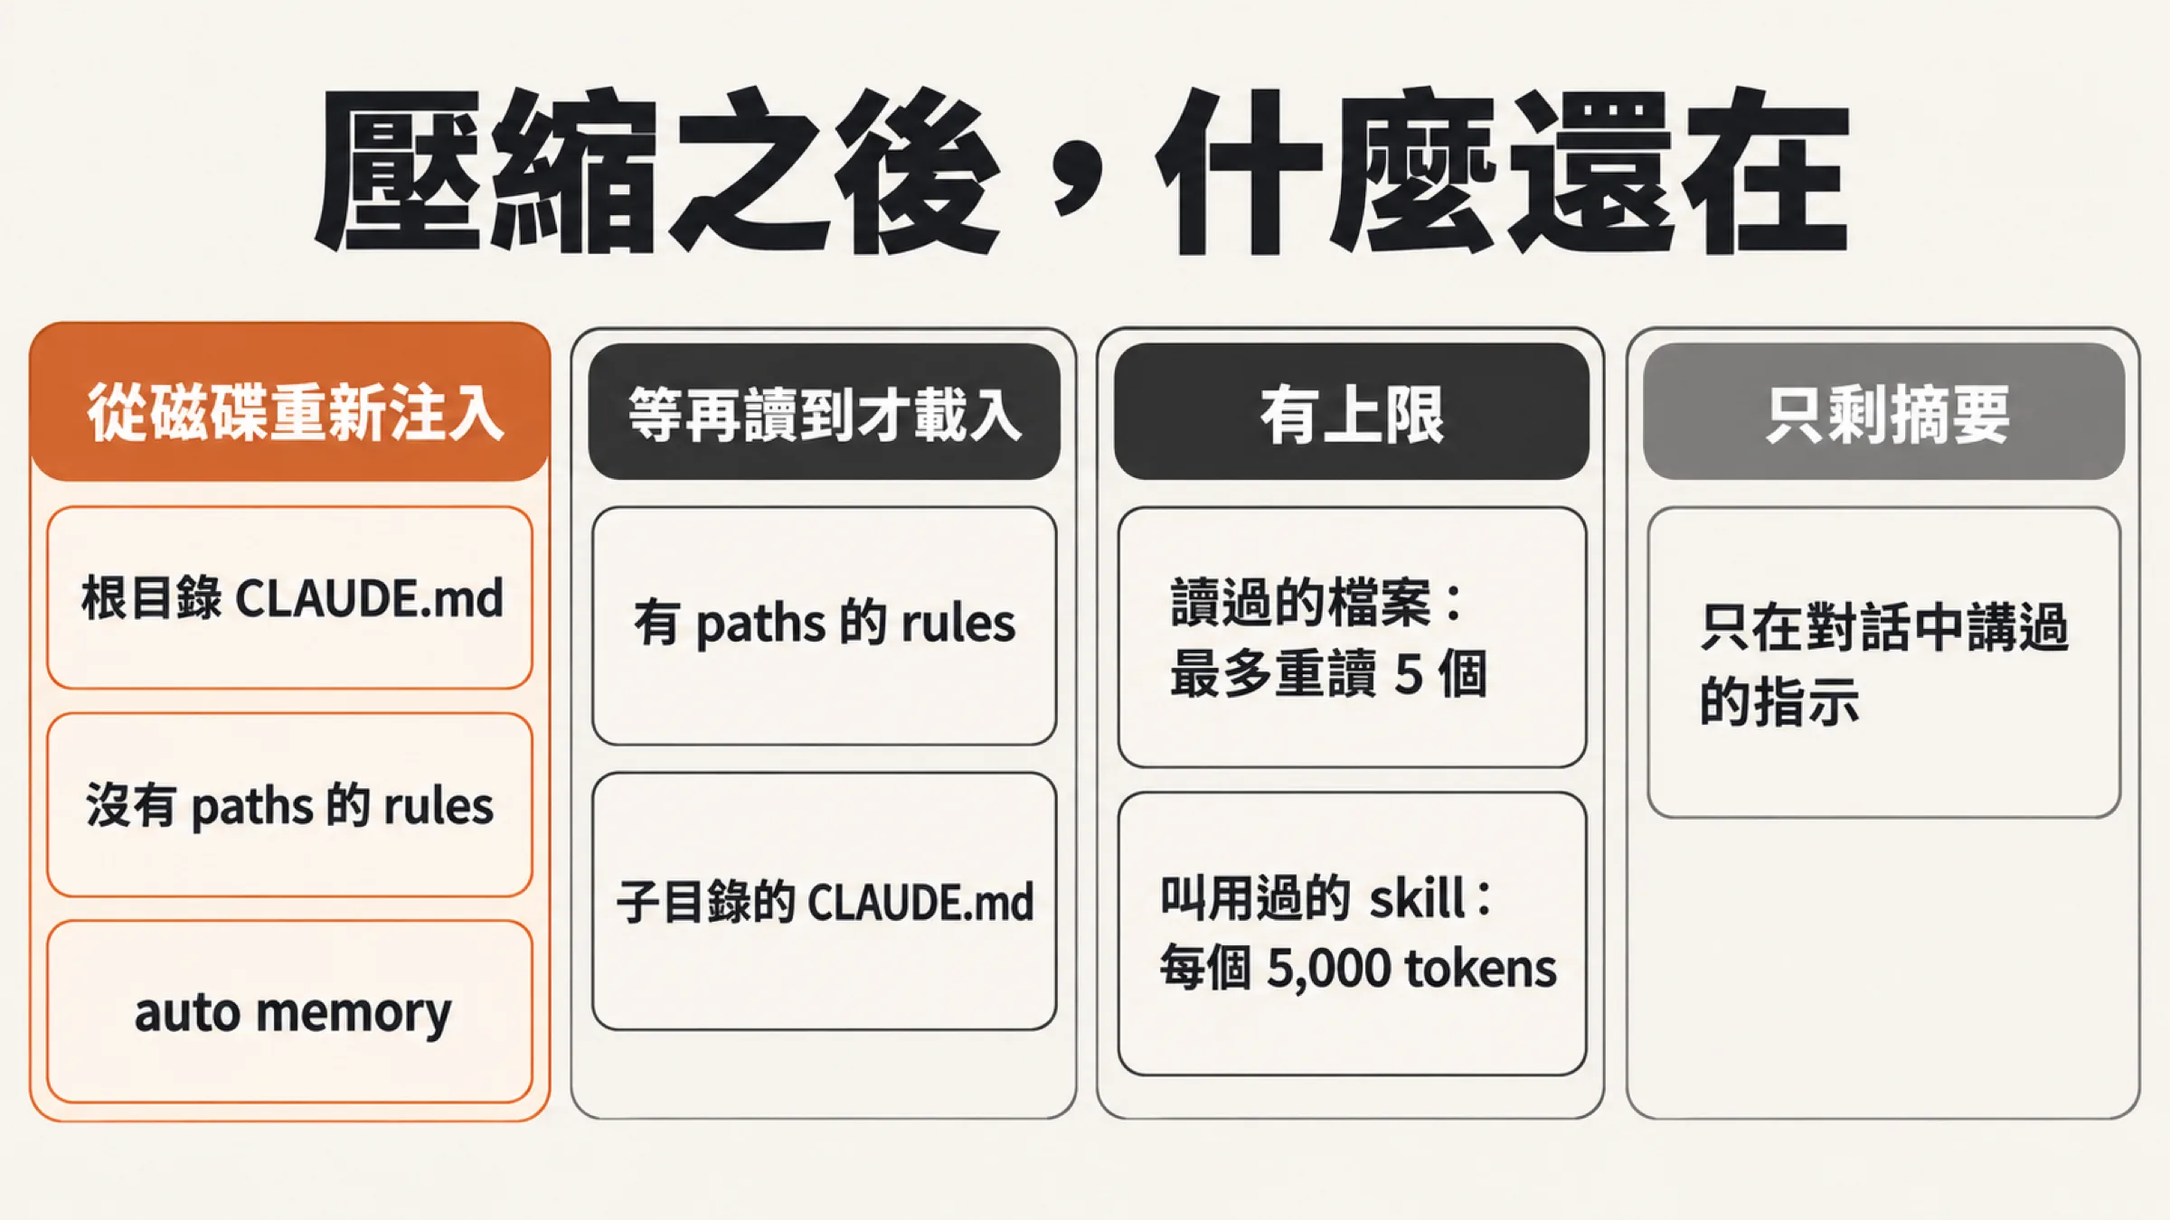
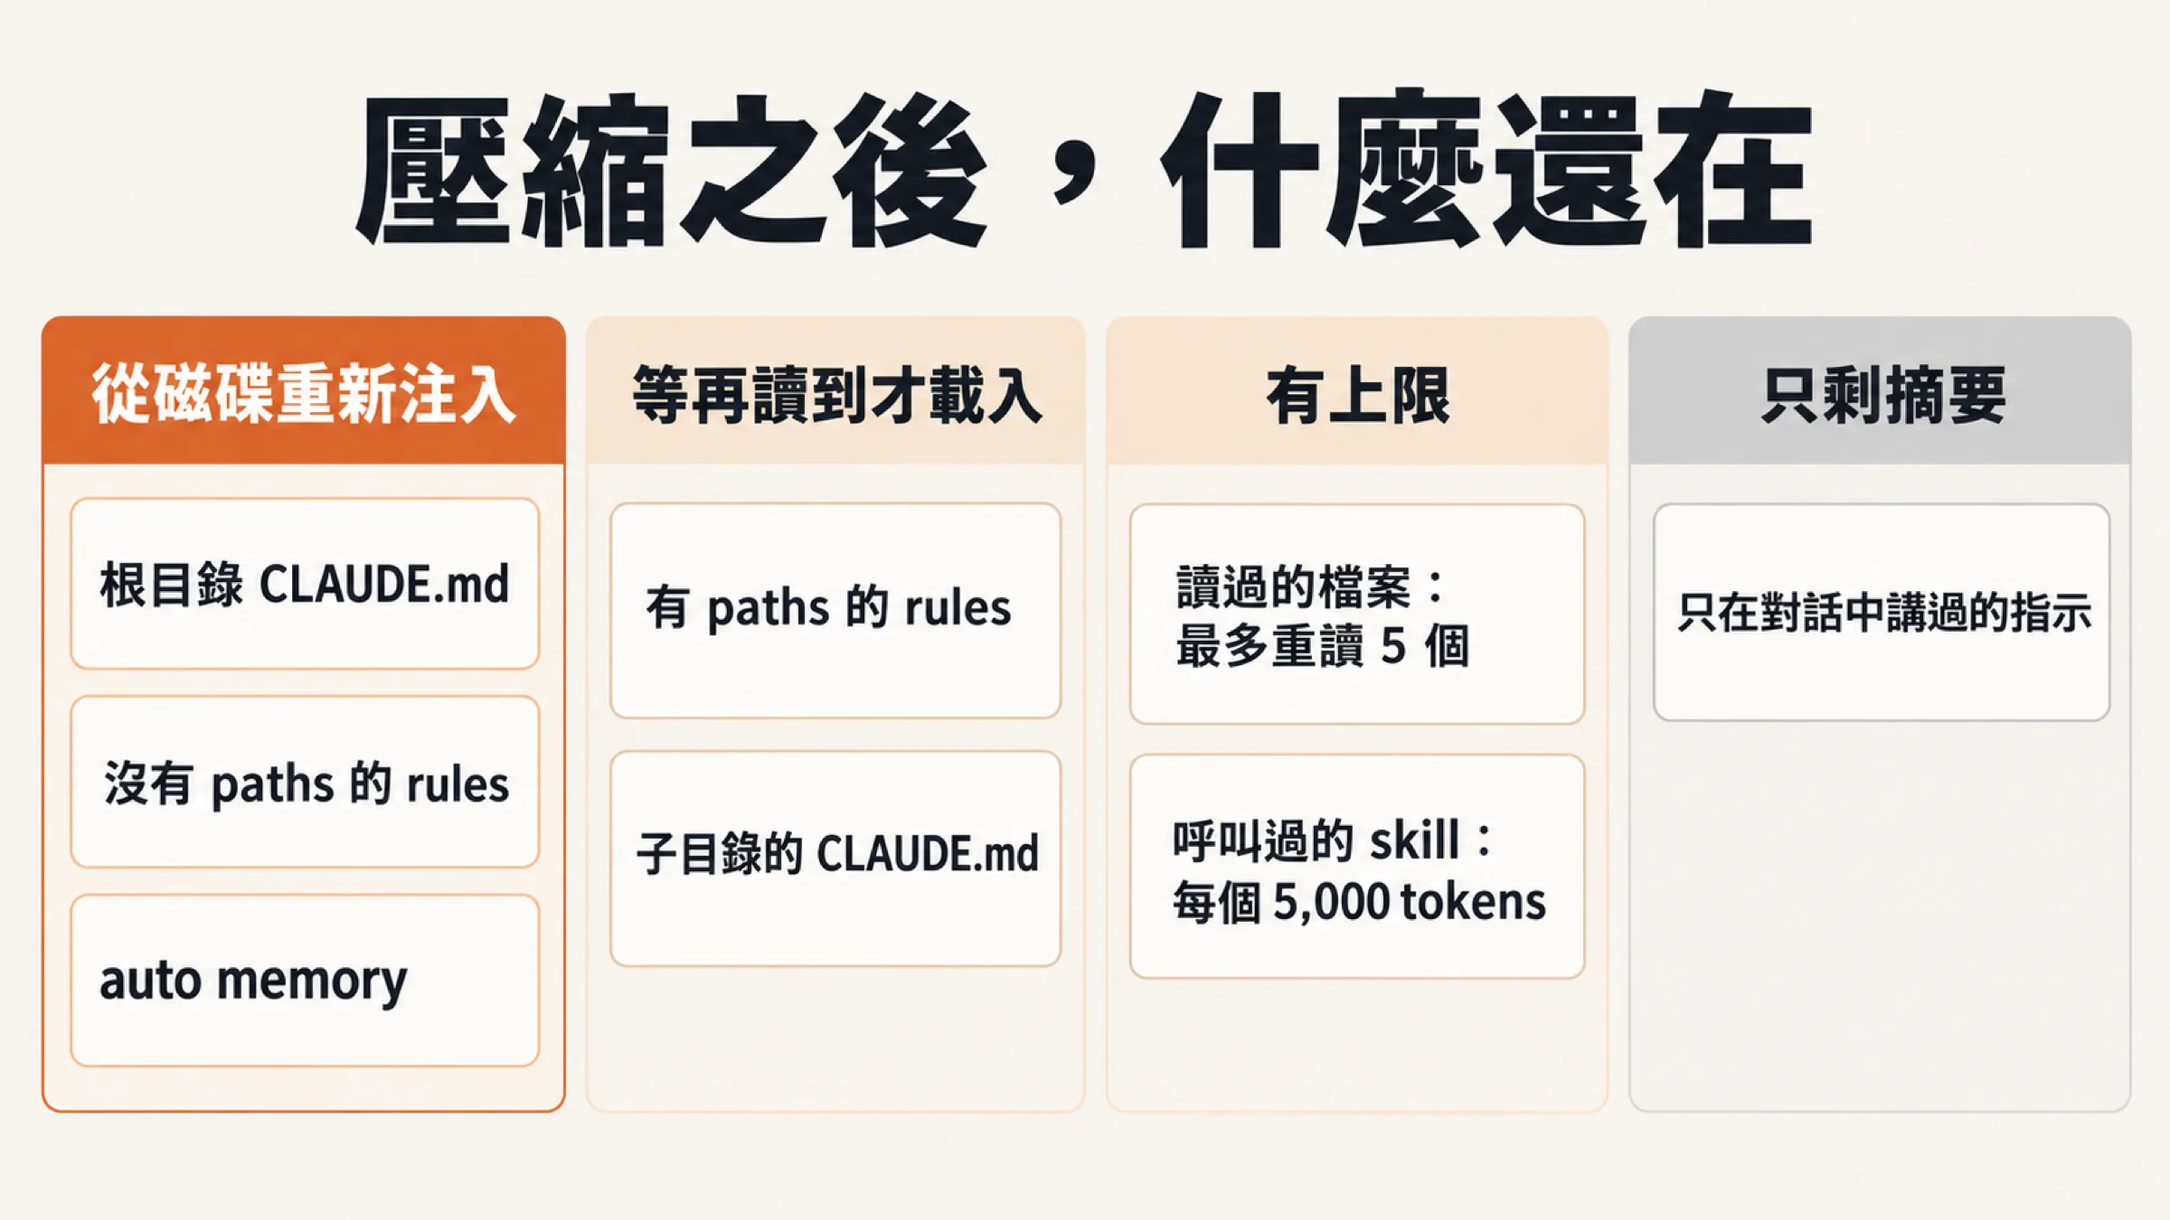
Update: 補 context window 白話說明與示意圖、修 fig3／fig5 圖文、調整用語

Changed region(s): [[0.0, 0.2489, 1.0, 0.9333], [0.125, 0.0622, 0.875, 0.2178], [0.75, 0.9022, 0.9688, 0.9333]]

diff --git a/index.html b/index.html
@@ -120,7 +120,8 @@ th:first-child,td:first-child{min-width:5.5em}
 </header>
 <main id="main"><article>
 <figure class="section-figure hero-figure"><img src="images/web/hero_16x9.webp" alt="" loading="eager"></figure>
-<p>官方 <a href="https://code.claude.com/docs/en/best-practices" target="_blank" rel="noopener noreferrer">Best practices</a> 開頭就點明：大部分建議都來自同一個限制，Claude 的 context window 會很快填滿，而且越滿，表現越差。一次除錯或一次程式庫探索，就可能吃掉數萬個 token。context 裡裝著整段對話、每個讀過的檔案、每次指令的輸出，滿了以後 Claude 會開始「忘記」前面的指示，錯誤也變多。</p>
+<p>官方 <a href="https://code.claude.com/docs/en/best-practices" target="_blank" rel="noopener noreferrer">Best practices</a> 開頭就點明：大部分建議都來自同一個限制，Claude 的 context window 會很快填滿，而且越滿，表現越差。一次除錯或一次程式庫探索，就可能吃掉數萬個 token。context window 可以想成 Claude 一次看得到的全部內容：你說過的話、每個讀過的檔案、每次指令的輸出，都塞在裡面。容量有限，滿了以後 Claude 會開始「忘記」前面的指示，錯誤也變多。token 是計算這個容量的單位。</p>
+<figure class="section-figure"><picture><source media="(max-width: 640px)" srcset="images/web/fig7_9x16.webp"><img src="images/web/fig7_16x9.webp" alt="context window 像一個會被慢慢裝滿的容器：還有空間時回答穩定，快滿了就容易漏規則、重複犯錯" loading="lazy" tabindex="0" role="button" aria-label="放大圖片：context window 像一個會被慢慢裝滿的容器：還有空間時回答穩定，快滿了就容易漏規則、重複犯錯"></picture><figcaption>context window 像一個會被慢慢裝滿的容器。</figcaption></figure>
 <p>這句話解釋了不少日常現象：聊久了它變笨、同一個錯糾正三次還是錯、規則寫了它偏偏漏掉一條。官方最佳實踐的第一節還有另一個提示：給 Claude 一個它自己能跑的檢查，你就不必一直盯著它。</p>
 <p>本文把常用方法依你實際的工作順序整理成六個情境：開工、動手前、做的時候、走歪了、對話變長、常做的事想交出去。每個情境告訴你什麼時候用、怎麼打、哪裡容易踩坑。事實與指令以官方文件為準，文中附連結；沒特別註明的建議，都出自文末列出的官方文件。EP431 影片的說法只用來決定取材順序，引用時會標明。</p>
 <figure class="section-figure"><picture><source media="(max-width: 640px)" srcset="images/web/fig0_9x16.webp"><img src="images/web/fig0_16x9.webp" alt="六個情境與對應的方法關鍵字，由左到右依工作順序排列" loading="lazy" tabindex="0" role="button" aria-label="放大圖片：六個情境與對應的方法關鍵字，由左到右依工作順序排列"></picture><figcaption>六個情境，依你實際的工作順序排列。</figcaption></figure>
@@ -219,10 +220,10 @@ Keep interviewing until we&#x27;ve covered everything, then write a complete spe
 <p>對話拉長之後，Claude 開始漏掉先前講過的事；或你只是想問個小問題，不想把它塞進主對話。</p>
 <h3>怎麼打</h3>
 <p>先看現況。<code>/context</code> 會用分類的方式顯示目前用量，並給出最佳化建議，包括哪些 CLAUDE.md 與 auto memory 檔案有載入。再決定怎麼收。</p>
-<ul><li><strong>換一件不相關的事之前，<code>/clear</code>。</strong> 官方把「一個 session 裡做 A、順口問 B、再回去做 A」叫作廚房水槽式的 session，context 裡塞滿用不到的東西。</li><li><strong>快滿時，自己決定留什麼。</strong> Claude Code 接近上限時會自動壓縮，你也可以先出手：<code>/compact focus on the API changes</code>，摘要就會保留你指定的重點。要壓縮一半，用 <code>/rewind</code> 選一則訊息，再選 Summarize from here 或 Summarize up to here。想調整自動壓縮的時機，用 <code>/autocompact 500k</code> 這類寫法設定 context 填到多滿才觸發；這個值會存進 user settings，之後所有專案都生效。</li><li><strong>問小事，用 <code>/btw</code>。</strong> 例如 <code>/btw what was the name of that config file again?</code>。這一問一答不會進入對話歷史，所以不佔空間；Claude 還在工作時也能問，且不會打斷它。它沒有任何工具，只能回答對話裡已經有的東西，不能讀檔或跑指令；要它去查新的東西，改用 subagent。</li><li><strong>大量閱讀，交給 subagent。</strong> 在要求前面加一句：<code>Use subagents to investigate how our authentication system handles token refresh, and whether we have any existing OAuth utilities I should reuse.</code> subagent 在自己獨立的 context window 裡讀檔，讀完只把摘要帶回來，主對話留給真正要改的部分。調查前先限定範圍，否則 Claude 可能讀上百個檔案把 context 塞滿，官方把這叫作無止境的探索。</li><li><strong>一件事一個對話，並且命名。</strong> 工作會橫跨好幾天時，用 <code>/rename oauth-migration</code> 取個看得懂的名字。隔天用 <code>claude --continue</code> 接回最近一個對話，或 <code>claude --resume</code> 開選單挑。官方的比喻是把每個名字當成一條分支：每條工作線有自己持續的 context。</li></ul>
+<ul><li><strong>換一件不相關的事之前，<code>/clear</code>。</strong> 官方把「一個 session 裡做 A、順口問 B、再回去做 A」叫作 kitchen sink session，也就是什麼都往裡塞的 session，context 裡塞滿用不到的東西。</li><li><strong>快滿時，自己決定留什麼。</strong> Claude Code 接近上限時會自動壓縮，你也可以先出手：<code>/compact focus on the API changes</code>，摘要就會保留你指定的重點。要壓縮一半，用 <code>/rewind</code> 選一則訊息，再選 Summarize from here 或 Summarize up to here。想調整自動壓縮的時機，用 <code>/autocompact 500k</code> 這類寫法設定 context 填到多滿才觸發；這個值會存進 user settings，之後所有專案都生效。</li><li><strong>問小事，用 <code>/btw</code>。</strong> 例如 <code>/btw what was the name of that config file again?</code>。這一問一答不會進入對話歷史，所以不佔空間；Claude 還在工作時也能問，且不會打斷它。它沒有任何工具，只能回答對話裡已經有的東西，不能讀檔或跑指令；要它去查新的東西，改用 subagent。</li><li><strong>大量閱讀，交給 subagent。</strong> 在要求前面加一句：<code>Use subagents to investigate how our authentication system handles token refresh, and whether we have any existing OAuth utilities I should reuse.</code> subagent 在自己獨立的 context window 裡讀檔，讀完只把摘要帶回來，主對話留給真正要改的部分。調查前先限定範圍，否則 Claude 可能讀上百個檔案把 context 塞滿，官方把這叫作無止境的探索。</li><li><strong>一件事一個對話，並且命名。</strong> 工作會橫跨好幾天時，用 <code>/rename oauth-migration</code> 取個看得懂的名字。隔天用 <code>claude --continue</code> 接回最近一個對話，或 <code>claude --resume</code> 開選單挑。官方的比喻是把每個名字當成一條分支：每條工作線有自己持續的 context。</li></ul>
 <p>壓縮之後，哪些東西還在？<a href="https://code.claude.com/docs/en/context-window" target="_blank" rel="noopener noreferrer">context-window 頁</a>有一張完整的表，整理成下圖：</p>
 <figure class="section-figure"><picture><source media="(max-width: 640px)" srcset="images/web/fig5_9x16.webp"><img src="images/web/fig5_16x9.webp" alt="壓縮之後各類內容的去向：重新注入、按需載入、有上限、只剩摘要" loading="lazy" tabindex="0" role="button" aria-label="放大圖片：壓縮之後各類內容的去向：重新注入、按需載入、有上限、只剩摘要"></picture><figcaption>壓縮之後，什麼還在。</figcaption></figure>
-<p>兩個上限的細節：讀過或改過的檔案，最多重讀 5 個，挑最近改過的，超過 5,000 tokens 的只留路徑；叫用過的 skill，每個上限 5,000 tokens，合計 25,000，最舊的先被丟掉。</p>
+<p>兩個上限的細節：讀過或改過的檔案，最多重讀 5 個，挑最近改過的，超過 5,000 tokens 的只留路徑；呼叫過的 skill，每個上限 5,000 tokens，合計 25,000，最舊的先被丟掉。</p>
 <h3>常見踩坑</h3>
 <p><strong>以為要靠「壓縮指示」才保得住 CLAUDE.md。</strong> 官方確實說可以在 CLAUDE.md 寫像 <code>When compacting, always preserve the full list of modified files and any test commands</code> 這樣的指示，來引導摘要保留什麼。不過從上表看，專案根目錄的 CLAUDE.md 本來就會在壓縮後從磁碟重新注入；真正會在壓縮裡消失的是只在對話中講過的指示，以及按需載入的子目錄規則。必須撐過壓縮的規則，拿掉 <code>paths:</code> 或放進根目錄 CLAUDE.md。</p>
 <p><strong>把重要指示放在 skill 的後面。</strong> 超過上限的 skill 在壓縮後會被截斷，截斷是保留開頭，所以最重要的指令要寫在 <code>SKILL.md</code> 的最前面。</p>
@@ -260,7 +261,7 @@ Analyze and fix the GitHub issue: $ARGUMENTS.
 <pre class="code" tabindex="0"><code>Write a hook that runs eslint after every file edit
 Write a hook that blocks writes to the migrations folder</code></pre>
 <p>它會幫你把設定寫好；想手動改就編輯 <code>.claude/settings.json</code>，輸入 <code>/hooks</code> 可以瀏覽目前有哪些。</p>
-<p><strong>踩坑</strong>：EP431 影片把 hook 形容成「固定時間點一定會跑、沒有例外」。方向沒錯，官方文件的細節更多：hook 以結束碼 2 表示阻擋；以其他碼結束，或根本沒啟動、輸出了無效的 JSON，都算「非阻擋錯誤」，動作照常進行（把該 hook 的 <code>onFailure</code> 設成 <code>&quot;block&quot;</code>，失敗就會等同結束碼 2 的阻擋；這個欄位需要 Claude Code v2.1.295 以上）。在 <code>PostToolUse</code> 這類事件上，工具已經執行完了，阻擋也無法復原。另外，設定 <code>&quot;disableAllHooks&quot;: true</code> 就能關閉全部 hook。把「一定要攔住」的規則寫成 hook 時，要實際測過它會攔。</p>
+<p><strong>踩坑</strong>：EP431 影片把 hook 形容成「固定時間點一定會跑、沒有例外」。方向沒錯，官方文件的細節更多：hook 以結束碼 2 表示阻擋；以其他碼結束，或根本沒啟動、輸出了無效的 JSON，都算「不會擋下動作的錯誤」（官方稱 non-blocking error），動作照常進行（把該 hook 的 <code>onFailure</code> 設成 <code>&quot;block&quot;</code>，失敗就會等同結束碼 2 的阻擋；這個欄位需要 Claude Code v2.1.295 以上）。在 <code>PostToolUse</code> 這類事件上，工具已經執行完了，阻擋也無法復原。另外，設定 <code>&quot;disableAllHooks&quot;: true</code> 就能關閉全部 hook。把「一定要攔住」的規則寫成 hook 時，要實際測過它會攔。</p>
 <h3>Subagent：把研究或審查交給另一個 context</h3>
 <p>第五章講過用 subagent 查資料。你也可以在 <code>.claude/agents/</code> 底下定義常用的角色，例如官方範例的資安審查員：</p>
 <pre class="code" tabindex="0"><code>---
@@ -305,7 +306,7 @@ done</code></pre>
 <p>這六章其實反覆在處理兩件事。第一件是 context 這項稀缺資源：常 <code>/clear</code>、大量閱讀丟給 subagent、要撐過壓縮的規則放根目錄 CLAUDE.md。第二件是驗證：只要讓檢查自己跑、自己判斷、自己把證據交出來，你就從盯著它的人，變成看證據的人。</p>
 <p>官方在結尾也留了一段話：這些模式是通用的起點，並不適合每個情境。有時你正深入一個複雜問題，歷史很有價值，那就讓 context 累積；有時任務本身是探索性的，跳過計畫也沒問題；有時一個含糊的 prompt 恰恰合適，因為你想先看看 Claude 怎麼詮釋問題。請留意什麼情況下效果好，什麼情況下效果差，久了你會有一種任何指南都寫不出來的直覺。</p>
 <h2 id="sec-8">我自己多做的幾招</h2>
-<p>前面的方法我大多照著用，另外有幾招是用久了自己長出來的，放在這裡分享。這一節是我的個人做法，不屬於官方文件或影片的內容。</p>
+<p>前面的方法我大多照著用，另外有幾招是用久了自己長出來的，放在這裡分享，都是進階做法。這一節是我的個人做法，不屬於官方文件或影片的內容。</p>
 <h3>先驗「檢查本身」</h3>
 <p>第三章說要給 Claude 能跑的檢查。我多加一步：寫進驗收條件的指令，先對一個一定會出錯的輸入跑一次，確認它真的會失敗，再對正確的輸入跑一次，確認會通過。</p>
 <p>這條是被空指令騙過兩次才加的。<code>python3 -m html.parser 檔案</code> 對任何檔案（連不存在的都算）都回傳 exit 0、沒有輸出，我卻兩次把它當成「跑過語法檢查」。現在驗收指令一律先拿壞輸入試一遍，會失敗才拿來用。本篇的指令與旗標核對也是這樣做的：腳本先用捏造的指令測過會報錯，才拿去比對官方文件。</p>
@@ -315,7 +316,7 @@ done</code></pre>
 <p>第二章建議 Sonnet 處理大部分工作、複雜架構再換 Opus。我把它寫成更具體的規則：一般研究與實作用 sonnet，機械式批次改檔用 haiku，架構規劃用 opus；同一個子任務 sonnet 錯兩次才升級到 opus，而且派 opus 時要附上前兩次的失敗紀錄，它才不會從頭重犯一次。</p>
 <h3>讀完這份指南之後，我改的三件事</h3>
 <ul><li><strong>CLAUDE.md 從 638 行瘦到 101 行。</strong> 官方建議每份控制在 200 行內，太長會佔用 context，也降低 Claude 遵守的程度。我把版本史與細節搬到其他文件，只留指令、陷阱與慣例，原文留備份。</li><li><strong><code>/goal</code> 條件用模板寫。</strong> 評估器只看對話內容，所以條件要有可量測的終點、證明方式和輪數上限，例如：「修好 <code>tests/test_parser.py</code>。完成的定義：執行 <code>pytest tests/test_parser.py -v</code> 並貼出輸出，0 failed；<code>git diff</code> 只動 <code>src/parser.py</code>。超過 20 輪就停下來回報。」我以前常寫「開始實作，直到完成」，評估器沒有東西可比對，只能相信 Claude 自己說做完了。</li><li><strong>加一個自己開啟的 Stop 驗證關卡。</strong> 專案放一個 <code>.stop-gate</code> 檔，第一行寫驗證指令，沒通過就不讓 Claude 結束。它刻意不看 <code>stop_hook_active</code>，改用自己的計數，連續擋 5 次才放行：照第三章的寫法每次停止嘗試只擋一次，而官方的 8 次計數又會在 Claude 每次呼叫工具時歸零，兩邊都不好用。</li></ul>
-<p>做的時候踩到一個坑：<a href="https://code.claude.com/docs/en/hooks" target="_blank" rel="noopener noreferrer">Hooks reference</a> 寫明，Stop hook 以 exit 2 結束時，只要 stdout 是空的、stderr 又顯示檔案不存在（例如 <code>No such file or directory</code>），就會被當成非阻擋錯誤放行。驗證指令失敗時常剛好印出這句，我用 <code>ls</code> 一個不存在的檔案重現過。改成腳本 exit 0、輸出 JSON 決策（<code>{&quot;decision&quot;:&quot;block&quot;, ...}</code>）之後才擋得住。這個關卡剛改好，還沒長期用過。python3 不存在，或驗證指令超過 hook 的 150 秒逾時，都等於放行；要把結果當完成證據，仍要在 <code>/goal</code> 條件裡要求貼出指令輸出。</p>
+<p>做的時候踩到一個坑：<a href="https://code.claude.com/docs/en/hooks" target="_blank" rel="noopener noreferrer">Hooks reference</a> 寫明，Stop hook 以 exit 2 結束時，只要 stdout 是空的、stderr 又顯示檔案不存在（例如 <code>No such file or directory</code>），就會被當成不會擋下動作的錯誤而放行。驗證指令失敗時常剛好印出這句，我用 <code>ls</code> 一個不存在的檔案重現過。改成腳本 exit 0、輸出 JSON 決策（<code>{&quot;decision&quot;:&quot;block&quot;, ...}</code>）之後才擋得住。這個關卡剛改好，還沒長期用過。python3 不存在，或驗證指令超過 hook 的 150 秒逾時，都等於放行；要把結果當完成證據，仍要在 <code>/goal</code> 條件裡要求貼出指令輸出。</p>
 <h2 id="sec-9">來源清單</h2>
 <p>以下官方文件皆於 2026-10-18 讀取；版本門檻（如 v2.1.283）以文件當日內容為準。</p>
 <p><strong>官方文件（Anthropic，code.claude.com）</strong></p>
